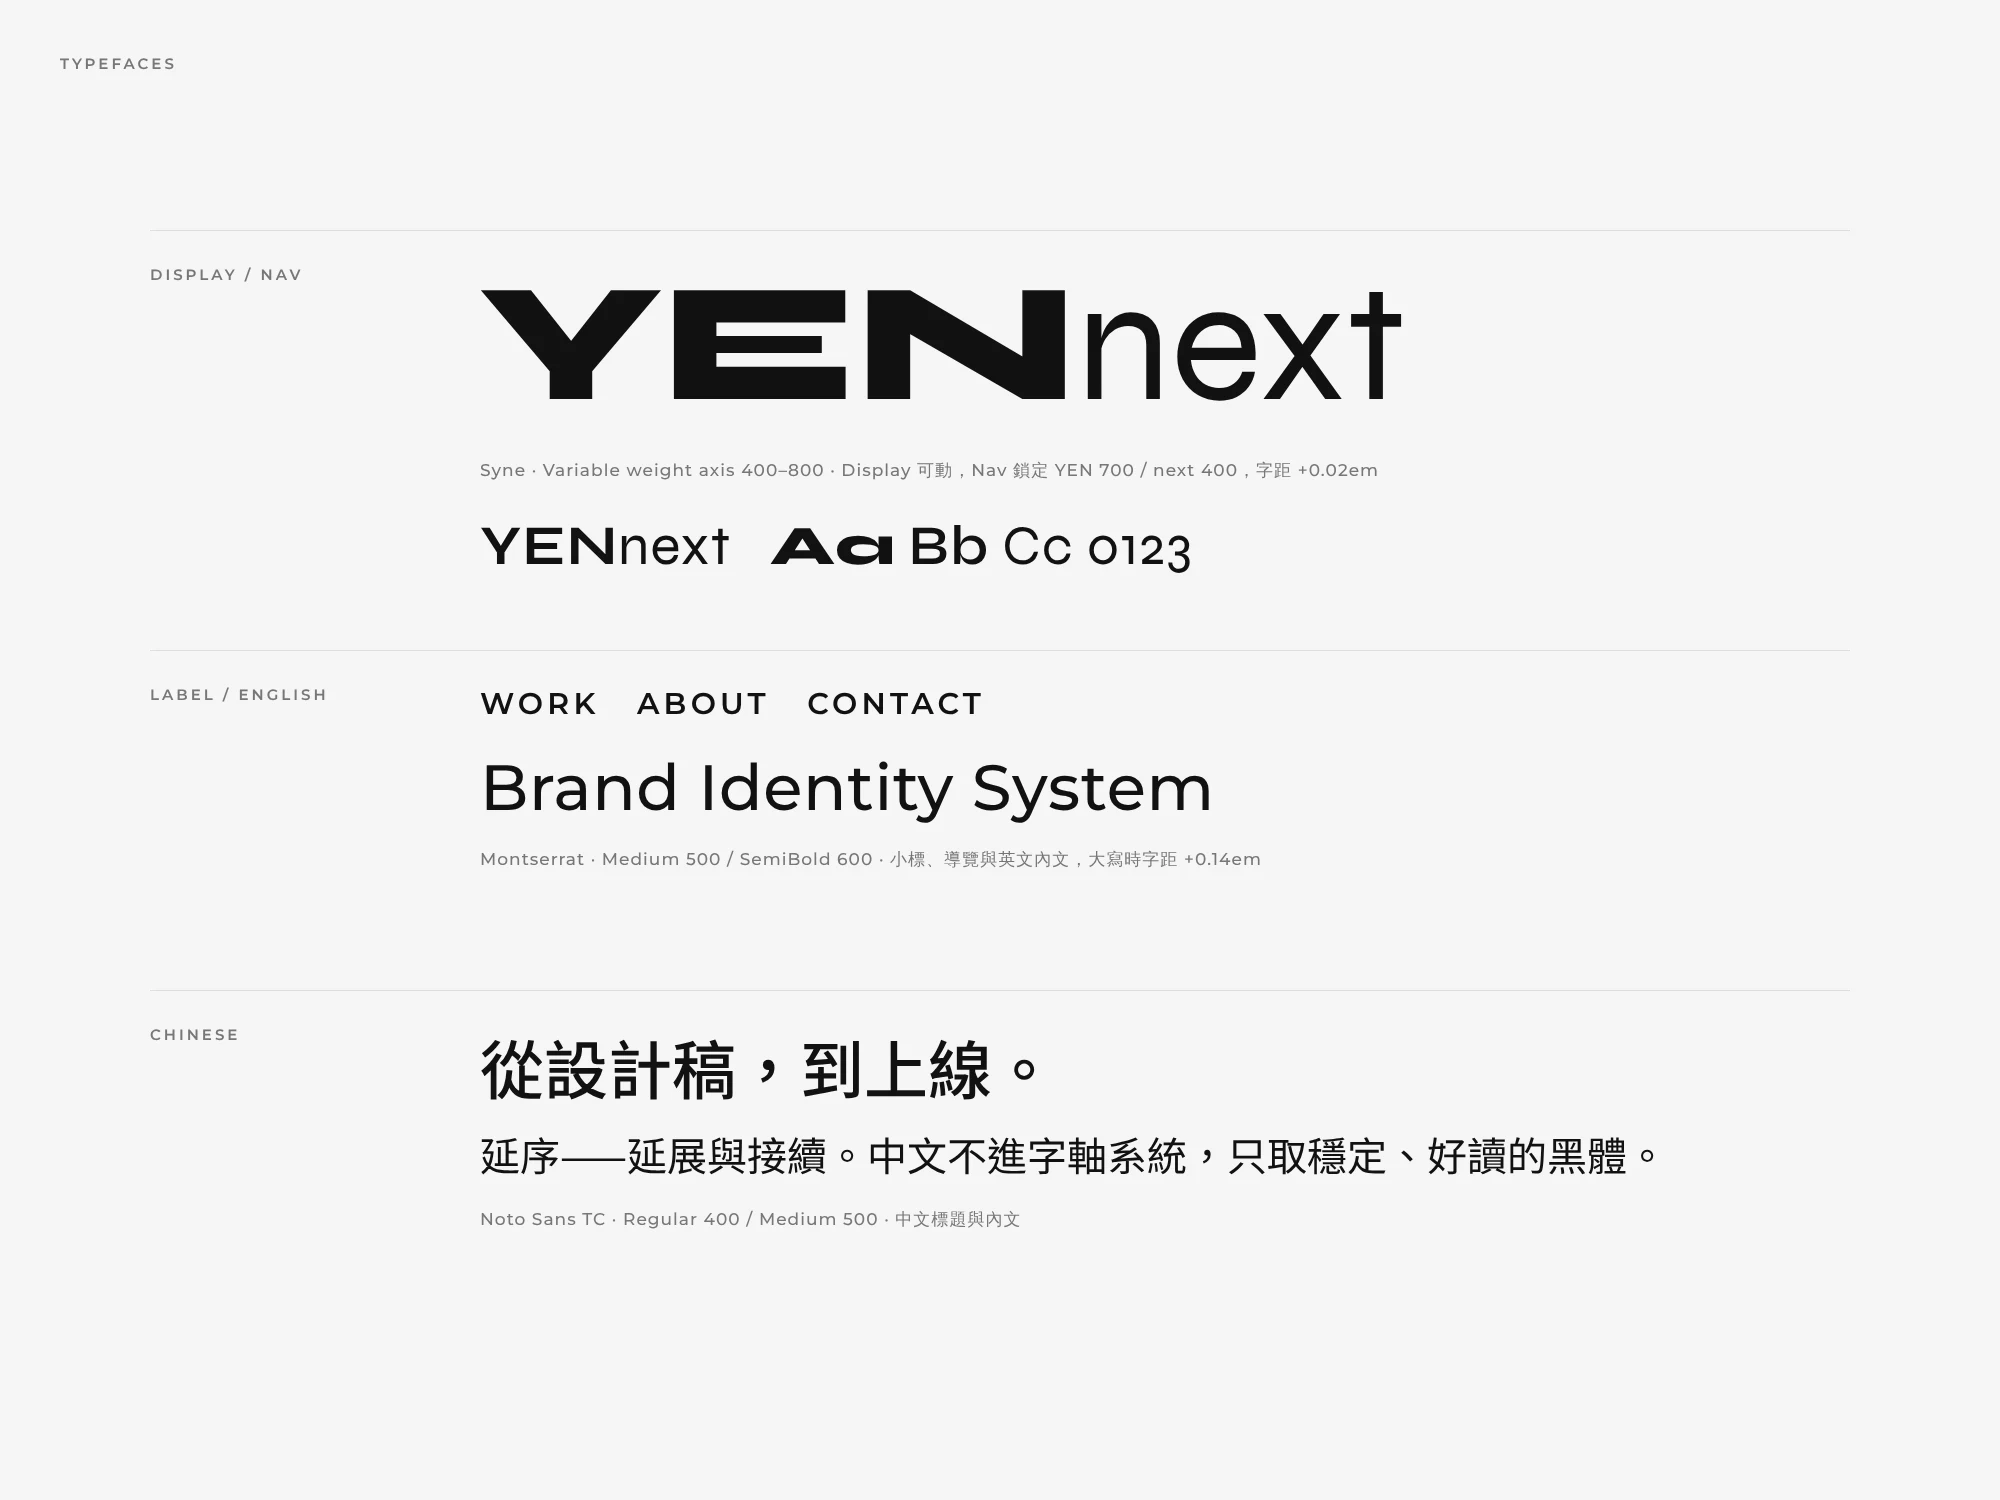
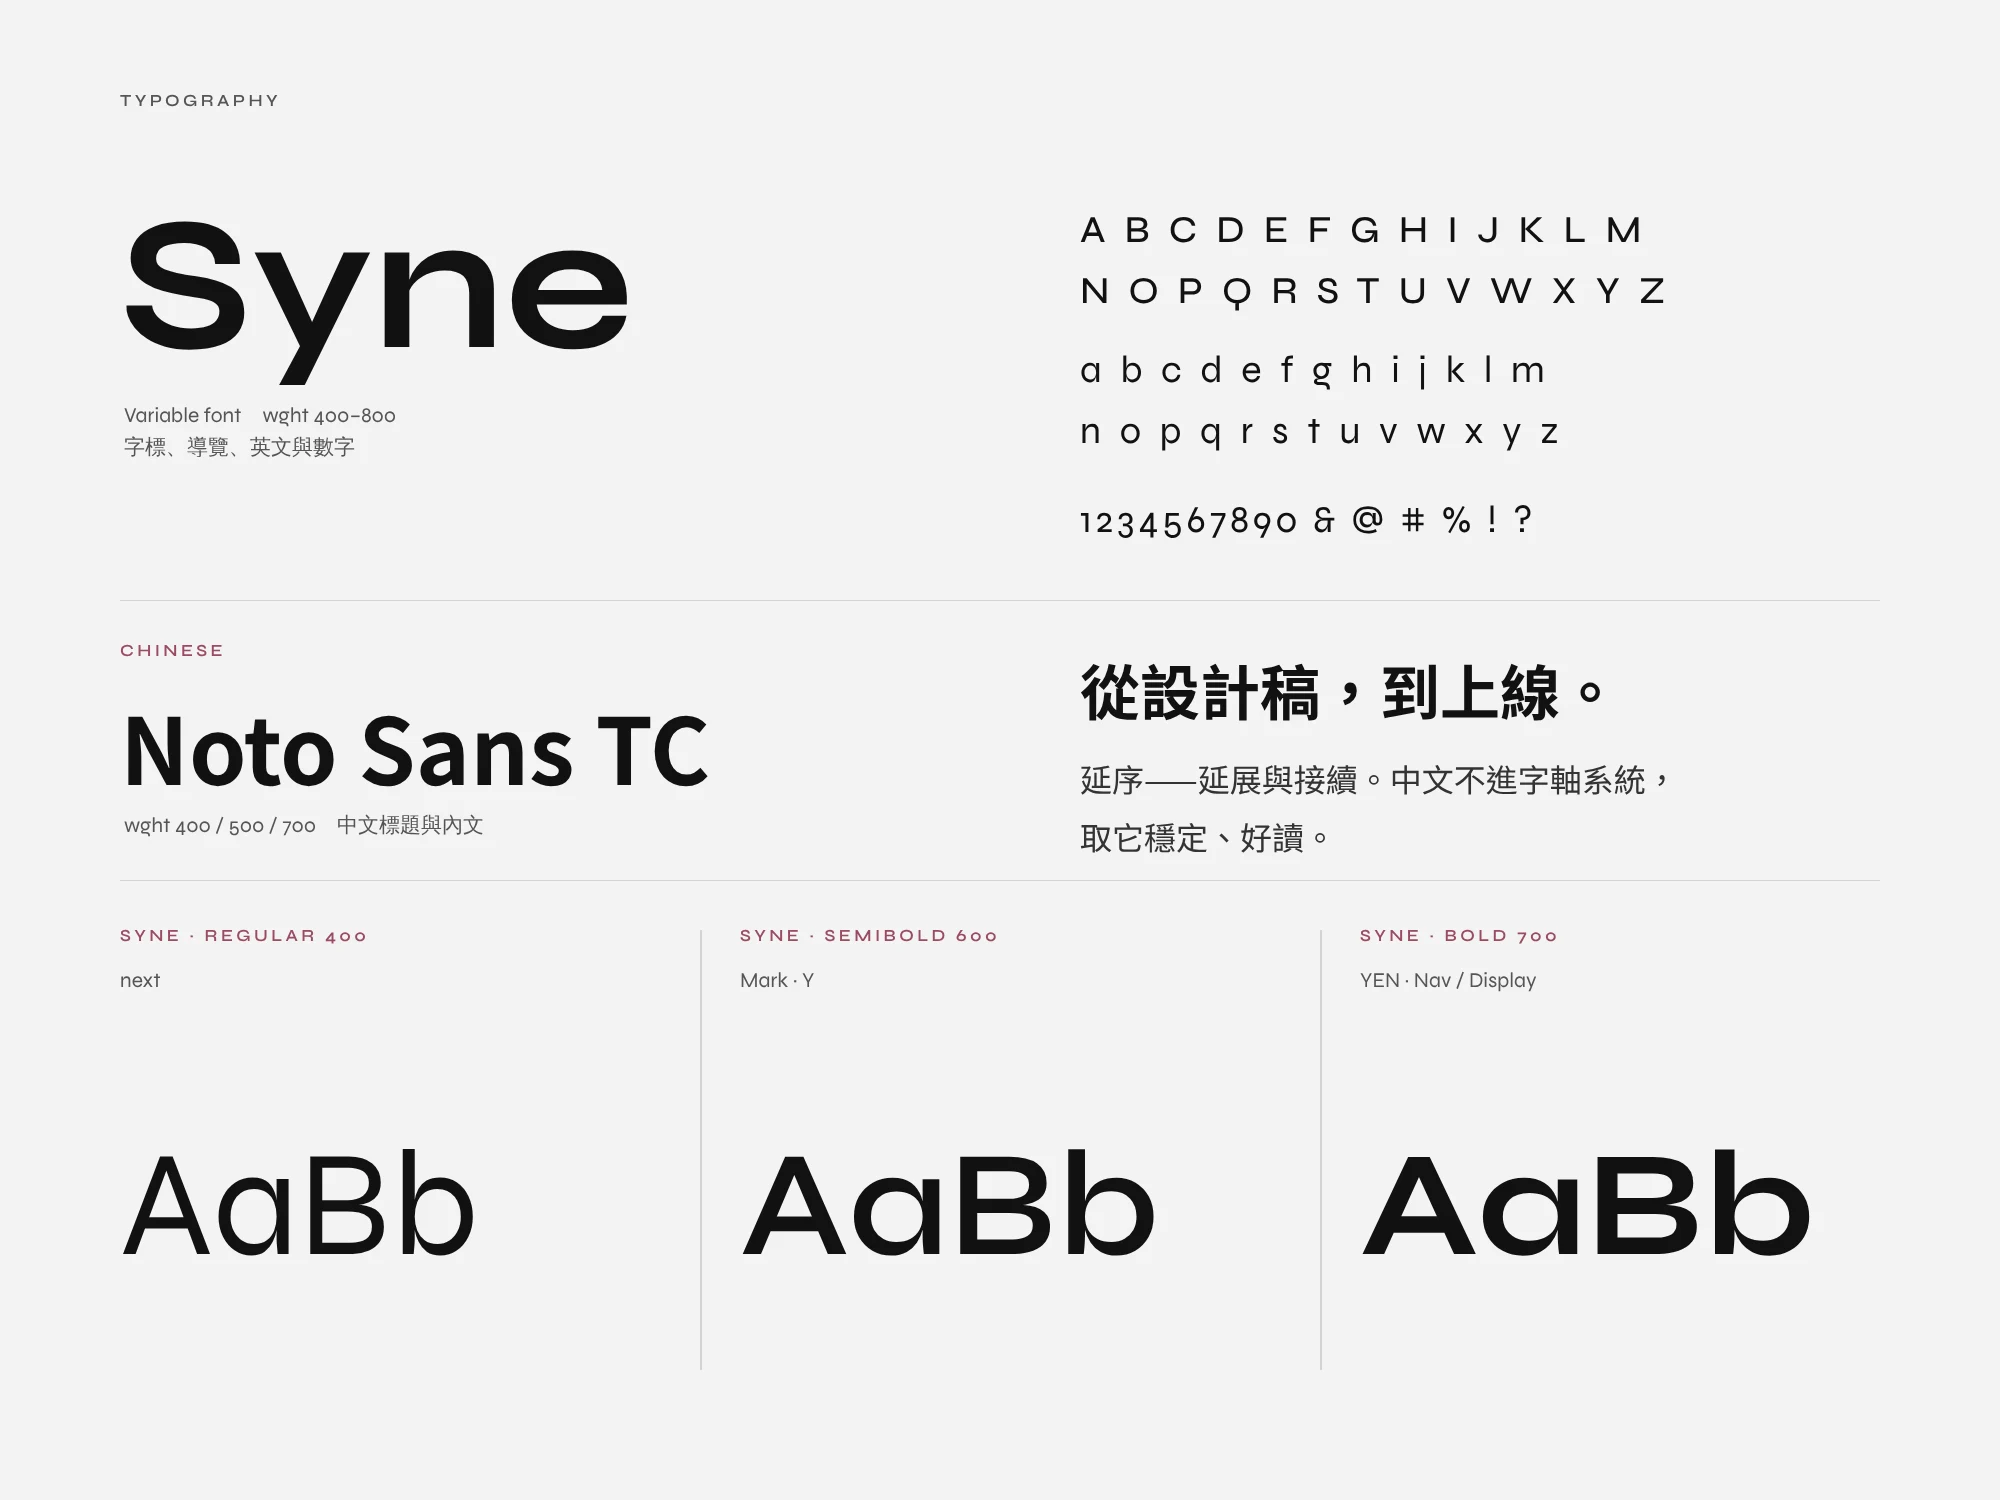
YENnext 字體頁改為 Syne + Noto Sans TC，統一字標字重組合
Claude-Session: https://claude.ai/code/session_014JanivvoXcPzRW7g6tNARU

diff --git a/js/data.js b/js/data.js
@@ -621,7 +621,7 @@ const BRANDS = [
       },
       {
         name: "字體",
-        note: "三種字體各管一件事：Syne 的字重軸負責字標與大標；Montserrat 管導覽、小標與英文；中文不進字軸系統，用 Noto Sans TC，取它穩定好讀。",
+        note: "兩種字體各管一件事：Syne 的字重軸負責字標、導覽與英文；中文不進字軸系統，用 Noto Sans TC，取它穩定好讀。",
         images: [
           "./images/yennext_p4_01.webp"
         ]
